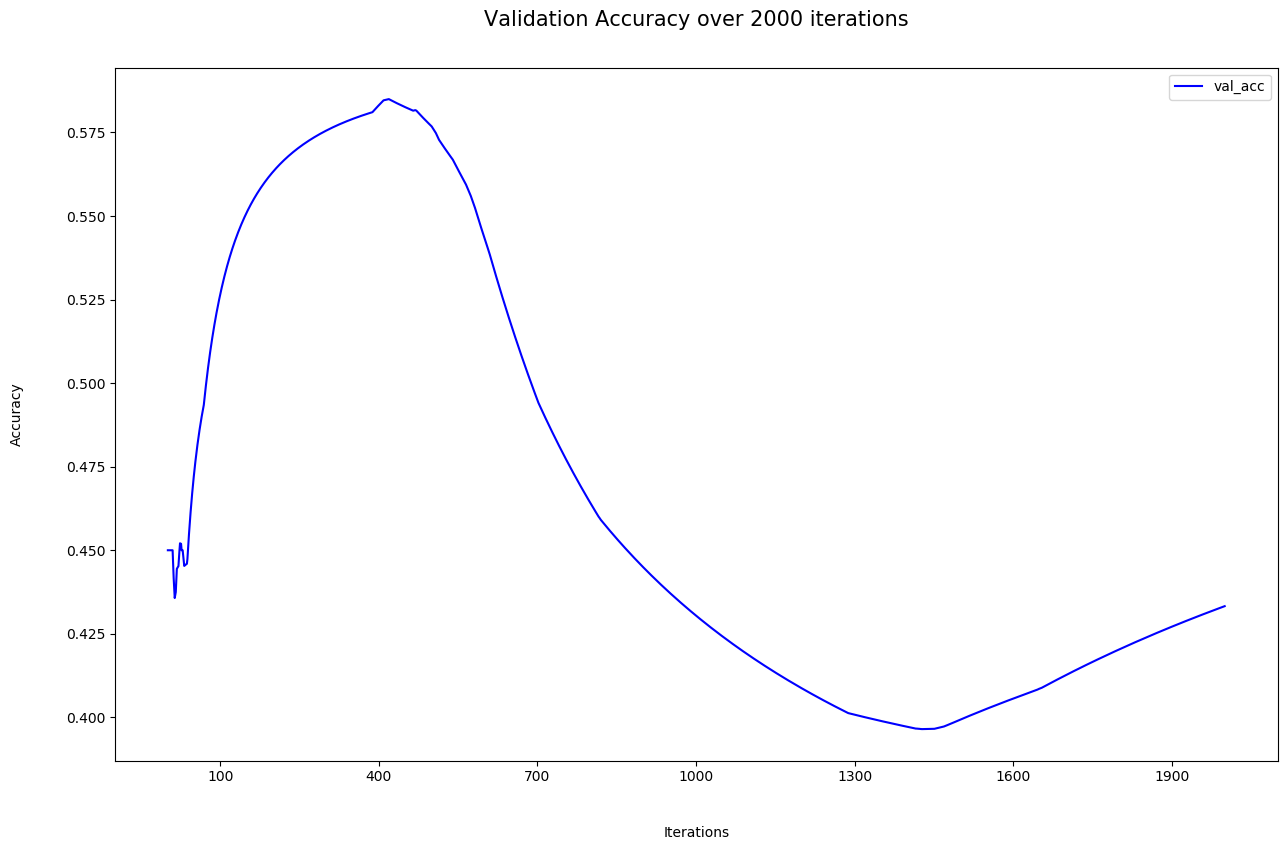
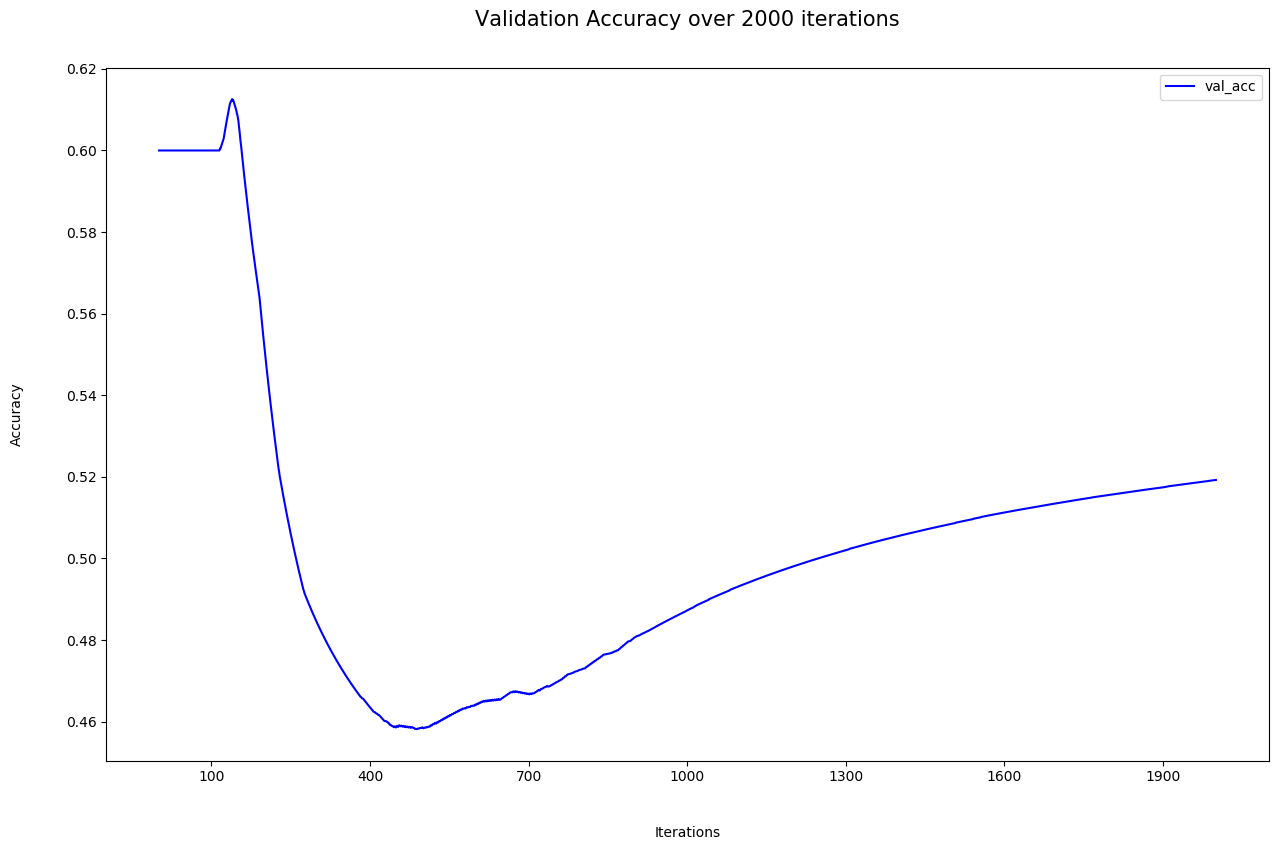
De-clogged SGD

diff --git a/src/optimizers/gradient_descent.c b/src/optimizers/gradient_descent.c
@@ -5,104 +5,73 @@ extern __Model__ * m;
 
 void SGD(){
   Computation_Graph * temp = m->graph;
-  dARRAY *layer_weights, *layer_biases, *grad_W, *grad_b;
-  layer_weights = layer_biases = grad_W = grad_b = NULL;
-
   while(temp!=NULL){
-    m->current_layer = temp;
-    if(temp->type!=INPUT && temp->type!=LOSS){
-      layer_weights = temp->DENSE->weights;
-      layer_biases = temp->DENSE->bias;
-
-      if(m->lambda>0.0){
-        float mul_val = m->lambda /(float)m->Y_train->shape[1];
-        
-        dARRAY * temp_reg_weight = NULL;
-        temp_reg_weight = mulScalar(layer_weights,mul_val);
-
-        grad_W = temp->DENSE->dW;
-        temp->DENSE->dW = add(grad_W,temp_reg_weight); 
-        
-        free2d(grad_W);
-        free2d(temp_reg_weight);
-        
-        grad_W = NULL;
-        temp_reg_weight = NULL;
-      }
-      
-      grad_W = temp->DENSE->dW;
-      grad_b = temp->DENSE->db;
-
-      dARRAY * mul_lr_W = NULL;
-      mul_lr_W = mulScalar(grad_W,m->learning_rate);
-
-      if(m->lambda==0.0){
-      // { printf("updating weights\n");
-        temp->DENSE->weights = NULL;
-        temp->DENSE->weights = subtract(layer_weights,mul_lr_W);
-      }
-      else{
-
-        dARRAY * reg_weight_decay = NULL;
-        float mul_value = m->lambda * m->learning_rate / m->Y_train->shape[1];
-        reg_weight_decay = mulScalar(layer_weights,mul_value);
-        
-        dARRAY * temp_weight_update = subtract(layer_weights,reg_weight_decay);
-        
-        free2d(reg_weight_decay);
-        reg_weight_decay = NULL;
-
-        temp->DENSE->weights = subtract(temp_weight_update,mul_lr_W);
-
-        free2d(temp_weight_update);
-        temp_weight_update = NULL;
-      }
-      
-      free2d(layer_weights);
-      free2d(mul_lr_W);
-      free2d(grad_W);
-      
-      dARRAY * mul_lr_b = NULL;
-      mul_lr_b = mulScalar(grad_b,m->learning_rate);
-
-      temp->DENSE->bias = NULL;
-      temp->DENSE->bias = subtract(layer_biases,mul_lr_b);
-      free2d(layer_biases);
-      free2d(mul_lr_b);
-      free2d(grad_b);
-      
-      if(temp->DENSE->dropout_mask!=NULL && temp->DENSE->dropout<(float)1.0){
-        free2d(temp->DENSE->dropout_mask);
-      }
-      
-      if(temp->DENSE->A!=NULL){
-        free2d(temp->DENSE->A);
-      }
-      if(temp->DENSE->cache!=NULL){
-        free2d(temp->DENSE->cache);
-      }
-      if(temp->DENSE->dA!=NULL)
-        free2d(temp->DENSE->dA);
-      if(temp->DENSE->dZ!=NULL)
-        free2d(temp->DENSE->dZ);
-      grad_W = NULL;
-      grad_b = NULL;
-      layer_weights = NULL;
-      layer_biases = NULL;
-      mul_lr_W = NULL;
-      mul_lr_b = NULL;
-      temp->DENSE->dA = NULL;
-      temp->DENSE->cache = NULL;
-      temp->DENSE->dropout_mask = NULL;
-      temp->DENSE->A = NULL;
-      m->output = NULL;
-      temp->DENSE->dZ = NULL;
+    if(temp->type==INPUT || temp->type==LOSS){
+      temp = temp->next_layer;
+      continue;
     }
-    else if(temp->type==LOSS){
-      if(temp->LOSS->grad_out!=NULL){
-        temp->LOSS->grad_out = NULL;
-      }
+
+    dARRAY * update_term1_dW = mulScalar(temp->DENSE->dW,m->learning_rate);
+    dARRAY * update_term1_db = mulScalar(temp->DENSE->db,m->learning_rate);
+
+    free2d(temp->DENSE->dW);
+    free2d(temp->DENSE->db);
+    temp->DENSE->dW = NULL;
+    temp->DENSE->db = NULL;
+
+    if(m->regularization!=NULL){
+      float mul_grad = m->lambda * m->learning_rate/(float)m->y_train_mini_batch[m->current_mini_batch]->shape[1];
+      dARRAY * update_term2_dW = mulScalar(temp->DENSE->weights,mul_grad);
+      dARRAY * update_term2_db = mulScalar(temp->DENSE->bias,mul_grad);
+
+      dARRAY * ptr_update_term1_dW = update_term1_dW;
+      dARRAY * ptr_update_term1_db = update_term1_db;
+
+      update_term1_dW = add(ptr_update_term1_dW,update_term2_dW);
+      update_term1_db = add(ptr_update_term1_db,update_term2_db);
+
+      free2d(update_term2_dW);
+      free2d(update_term2_db);
+      free2d(ptr_update_term1_dW);
+      free2d(ptr_update_term1_db);
+      update_term2_dW = NULL;
+      update_term2_db = NULL;
+      ptr_update_term1_dW = NULL;
+      ptr_update_term1_db = NULL;
     }
+
+    dARRAY * ptr_layer_W = temp->DENSE->weights;
+    dARRAY * ptr_layer_b = temp->DENSE->bias;
+
+    temp->DENSE->weights = subtract(ptr_layer_W,update_term1_dW);
+    temp->DENSE->bias = subtract(ptr_layer_b,update_term1_db);
+
+    free2d(update_term1_dW);
+    free2d(update_term1_db);
+    update_term1_dW = NULL;
+    update_term1_db = NULL;
+    
+    free2d(ptr_layer_W);
+    free2d(ptr_layer_b);
+    ptr_layer_W = NULL;
+    ptr_layer_b = NULL;
+    
+    if(temp->DENSE->dropout_mask!=NULL && temp->DENSE->dropout<(float)1.0)
+      free2d(temp->DENSE->dropout_mask);
+    if(temp->DENSE->A!=NULL)
+      free2d(temp->DENSE->A);
+    if(temp->DENSE->cache!=NULL)
+      free2d(temp->DENSE->cache);
+    if(temp->DENSE->dA!=NULL)
+      free2d(temp->DENSE->dA);
+    if(temp->DENSE->dZ!=NULL)
+      free2d(temp->DENSE->dZ);
+    temp->DENSE->dA = NULL;
+    temp->DENSE->cache = NULL;
+    temp->DENSE->dropout_mask = NULL;
+    temp->DENSE->A = NULL;
+    m->output = NULL;
+    temp->DENSE->dZ = NULL;
     temp = temp->next_layer;
   }
 }

diff --git a/src/test/test_network.c b/src/test/test_network.c
@@ -32,7 +32,7 @@ int main(){
   Dense(.layer_size=1,.activation="sigmoid",.initializer="random",.layer_type="output");
   Model(.x_train=x_train,.Y_train=y_train,.x_cv=x_cv,.Y_cv=y_cv,.x_test=x_test,.Y_test=y_test,\
         .num_iter=1000,.learning_rate=4e-3,.optimizer="sgd",.checkpoint_every=-1,.mini_batch_size=64,.regularization="L2",.lambda=5e-4,\
-        .loss="MSELoss"
+        
        );
 
   // m->load_model("test_patch2.t7");
